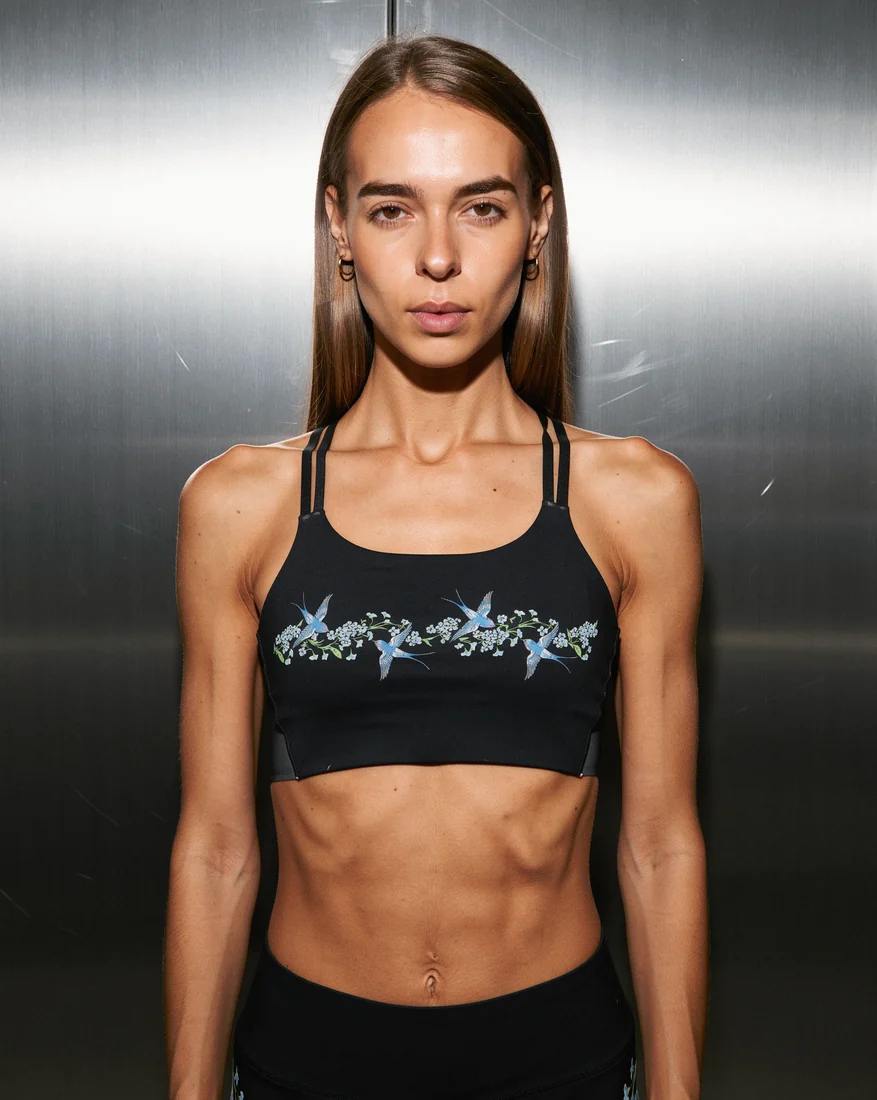
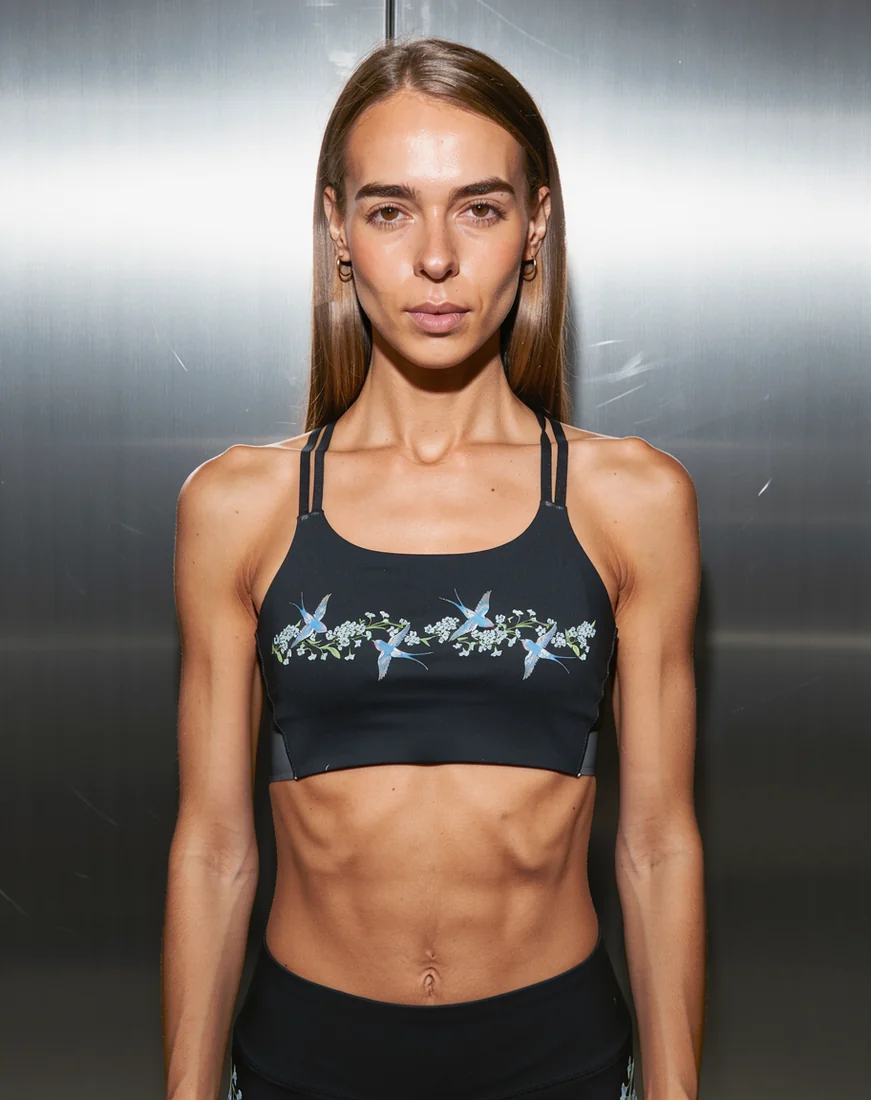
Show the product galleries at full size and rework Giving Back
The detail page drops the hero-and-thumbnails pattern: the lifestyle
frame now runs the full width of the media column with the five studio
frames two-up beneath it, and the copy sticks alongside.

Giving Back leads with the figure itself instead of a bordered box of
centred text, and the shoulder bag on the home page gets a wide frame
of its own so the card stops cropping into the strap.

The Bluebird and Wildflower covers carry a facial retouch.

Claude-Session: https://claude.ai/code/session_01H2N2bsu5qw9aqWFwFaRsDy

diff --git a/css/styles.css b/css/styles.css
@@ -1150,14 +1150,9 @@ html.is-ready .hero__cta .btn { transition-delay: .5s; }
   background: var(--ink);
   padding: clamp(7.5rem, 13vw, 11rem) var(--pad-x) clamp(4rem, 8vw, 7rem);
   display: grid;
-  grid-template-columns: minmax(0, 52fr) minmax(0, 48fr);
-  gap: clamp(2.5rem, 6vw, 6rem);
+  grid-template-columns: minmax(0, 63fr) minmax(0, 37fr);
+  gap: clamp(2.5rem, 5vw, 4.5rem);
   align-items: start;
-}
-.pdp__media img {
-  width: 100%;
-  aspect-ratio: 3 / 4;
-  object-fit: cover;
 }
 .pdp__info .crumb {
   display: inline-block;
@@ -1240,6 +1235,8 @@ html.is-ready .hero__cta .btn { transition-delay: .5s; }
 
 @media (max-width: 1023px) {
   .pdp { grid-template-columns: 1fr; }
+  /* Stacked, the copy has nothing to stick beside. */
+  .pdp__info { position: static; }
 }
 @media (max-width: 719px) {
   .related__grid { grid-template-columns: 1fr; }
@@ -1309,26 +1306,33 @@ html.is-ready .hero__cta .btn { transition-delay: .5s; }
    Product detail: gallery, prints, specification
    ============================================================ */
 
-.pdp__hero img { width: 100%; aspect-ratio: 3 / 4; object-fit: cover; }
-
-.pdp__thumbs {
+/* Lifestyle frame across the full column, studio details two-up beneath it. */
+.pdp__gallery {
   display: grid;
-  grid-template-columns: repeat(auto-fit, minmax(0, 1fr));
-  gap: .6rem;
-  margin-top: .6rem;
+  grid-template-columns: 1fr 1fr;
+  gap: .5rem;
 }
-.thumb {
-  padding: 0;
-  border: 1px solid transparent;
-  background: none;
-  cursor: pointer;
+.pdp-shot {
+  margin: 0;
   overflow: hidden;
-  transition: border-color .25s ease, opacity .25s ease;
-  opacity: .7;
+  background: var(--ink-deep);
 }
-.thumb img { width: 100%; aspect-ratio: 3 / 4; object-fit: cover; display: block; }
-.thumb:hover, .thumb:focus-visible { opacity: 1; }
-.thumb.is-active { border-color: var(--magenta); opacity: 1; }
+.pdp-shot img {
+  display: block;
+  width: 100%;
+  aspect-ratio: 4 / 5;
+  object-fit: cover;
+}
+.pdp-shot--lead { grid-column: 1 / -1; }
+/* A last frame left alone in its row runs full width rather than half-empty. */
+.pdp-shot:last-child:nth-child(even) { grid-column: 1 / -1; }
+.pdp-shot:last-child:nth-child(even) img { aspect-ratio: 16 / 11; }
+
+/* The copy follows the gallery instead of stranding it beside white space. */
+.pdp__info {
+  position: sticky;
+  top: clamp(5.5rem, 9vw, 7.5rem);
+}
 
 .pdp__origin {
   font-family: var(--font-ui);
@@ -1421,32 +1425,92 @@ html.is-ready .hero__cta .btn { transition-delay: .5s; }
    ============================================================ */
 
 .giving {
-  background: var(--ink);
-  padding: clamp(4rem, 8vw, 7rem) var(--pad-x);
+  background: var(--ink-deep);
+  padding: clamp(4.5rem, 9vw, 8rem) var(--pad-x);
+  border-top: 1px solid rgba(244, 243, 241, .08);
+  border-bottom: 1px solid rgba(244, 243, 241, .08);
 }
 .giving__inner {
-  max-width: 900px;
+  max-width: 1180px;
   margin: 0 auto;
-  text-align: center;
-  border: 1px solid rgba(237, 10, 237, .4);
-  border-radius: 18px;
-  padding: clamp(2.2rem, 5vw, 4rem);
+  display: grid;
+  grid-template-columns: minmax(0, 40fr) minmax(0, 60fr);
+  gap: clamp(2rem, 6vw, 5.5rem);
+  align-items: center;
 }
-.giving h2 {
+
+/* The figure carries the section: one number, read before any sentence. */
+.giving__figure {
+  margin: 0;
+  position: relative;
+  padding-left: clamp(1rem, 2.4vw, 2rem);
+}
+.giving__figure::before {
+  content: "";
+  position: absolute;
+  left: 0;
+  top: .35em;
+  bottom: .9em;
+  width: 2px;
+  background: linear-gradient(180deg, var(--magenta-hot), rgba(237, 10, 237, 0));
+}
+.giving__num {
+  display: block;
   font-family: var(--font-head);
   font-weight: 300;
+  font-size: clamp(5rem, 13vw, 11rem);
+  line-height: .86;
+  letter-spacing: -.04em;
+  color: var(--white);
+}
+.giving__num i {
+  font-style: normal;
+  color: var(--magenta);
+  font-size: .5em;
+  vertical-align: super;
+  margin-left: .04em;
+}
+.giving__figure figcaption {
+  margin-top: 1rem;
+  font-family: var(--font-ui);
+  font-size: .78rem;
+  letter-spacing: .22em;
   text-transform: uppercase;
-  font-size: clamp(1.5rem, 2.8vw, 2.4rem);
+  color: var(--grey);
+}
+
+.giving__kicker {
+  font-family: var(--font-ui);
+  font-size: .76rem;
+  letter-spacing: .24em;
+  text-transform: uppercase;
+  color: var(--magenta);
+  margin-bottom: 1rem;
+}
+.giving__title {
+  font-family: var(--font-head);
+  font-weight: 300;
+  font-size: clamp(1.6rem, 3.2vw, 2.7rem);
+  line-height: 1.18;
+  letter-spacing: -.01em;
   margin-bottom: 1.4rem;
 }
-.giving h2 strong { font-weight: 500; color: var(--magenta); }
-.giving p {
+.giving__copy p {
   color: var(--grey);
   font-size: 1.05rem;
-  max-width: 62ch;
-  margin: 0 auto .9rem;
+  line-height: 1.7;
+  max-width: 54ch;
+  margin-bottom: .9rem;
 }
-.giving .pct { color: var(--magenta); font-weight: 600; }
+.giving__note {
+  color: var(--white) !important;
+  padding-top: 1.1rem;
+  border-top: 1px solid rgba(244, 243, 241, .12);
+}
+
+@media (max-width: 859px) {
+  .giving__inner { grid-template-columns: 1fr; gap: 2.2rem; }
+}
 
 /* ============================================================
    Collection story

diff --git a/index.html b/index.html
@@ -124,7 +124,7 @@
           <a class="btn btn--ghost" href="product.html?id=refined-jacket">Check our product <span class="btn__icon" aria-hidden="true"></span></a>
         </article>
         <article class="product-card product-card--wide ar">
-          <img src="assets/cards/shoulder-bag.webp" loading="lazy" alt="The Active Shoulder Bag worn over the shoulder">
+          <img src="assets/cards/shoulder-bag-wide.webp" loading="lazy" alt="The Active Shoulder Bag">
           <a class="btn btn--ghost" href="product.html?id=active-shoulder-bag">Check our product <span class="btn__icon" aria-hidden="true"></span></a>
         </article>
       </div>
@@ -189,13 +189,18 @@
 
 
     <section class="giving" id="giving-back">
-      <div class="giving__inner ar">
-        <h2 class="ah">Giving <strong>Back</strong></h2>
-        <p>ABIRA was created for women who move with purpose. We believe that strength
-           is meant to be shared.</p>
-        <p>That's why <span class="pct">1% of all ABIRA sales</span> goes toward helping
-           cancer patients access the treatment they need. Every piece you choose helps
-           someone keep moving forward.</p>
+      <div class="giving__inner">
+        <figure class="giving__figure ar">
+          <span class="giving__num">1<i>%</i></span>
+          <figcaption>of all ABIRA sales</figcaption>
+        </figure>
+        <div class="giving__copy ar" style="--ar-delay:.12s">
+          <p class="giving__kicker">Giving back</p>
+          <h2 class="giving__title">Strength is meant<br>to be shared.</h2>
+          <p>ABIRA was created for women who move with purpose. One percent of every
+             sale goes toward helping cancer patients access the treatment they need.</p>
+          <p class="giving__note">Every piece you choose helps someone keep moving forward.</p>
+        </div>
       </div>
     </section>
 

diff --git a/js/main.js b/js/main.js
@@ -120,13 +120,6 @@
 
     document.title = fullName + ' — ABIRA';
 
-    const hero = document.getElementById('pdp-img');
-    function showImage(src, alt) {
-      hero.src = 'assets/' + src;
-      hero.alt = alt || '';
-    }
-    showImage(product.img, product.alt);
-
     document.getElementById('pdp-name').textContent = fullName;
     document.getElementById('pdp-desc').textContent =
       product.desc + (product.printNote ? ' ' + product.printNote : '');
@@ -147,21 +140,18 @@
       props.remove();
     }
 
-    // Gallery thumbnails
-    const thumbs = document.getElementById('pdp-thumbs');
-    (product.gallery || []).forEach((g, i) => {
-      const b = document.createElement('button');
-      b.type = 'button';
-      b.className = 'thumb' + (i === 0 ? ' is-active' : '');
-      b.setAttribute('aria-label', g.alt);
-      b.innerHTML = '<img src="assets/' + g.img + '" loading="lazy" alt="">';
-      b.addEventListener('click', () => {
-        showImage(g.img, g.alt);
-        thumbs.querySelectorAll('.thumb').forEach(t => t.classList.remove('is-active'));
-        b.classList.add('is-active');
-      });
-      thumbs.appendChild(b);
-    });
+    // Gallery: the lifestyle frame full width, then the studio details two-up.
+    const gallery = document.getElementById('pdp-gallery');
+    const frames = product.gallery && product.gallery.length
+      ? product.gallery
+      : [{ img: product.img, alt: product.alt }];
+
+    gallery.innerHTML = frames.map((g, i) =>
+      '<figure class="pdp-shot' + (i === 0 ? ' pdp-shot--lead' : '') + '">' +
+        '<img src="assets/' + g.img + '" alt="' + (g.alt || '').replace(/"/g, '&quot;') + '"' +
+        (i === 0 ? '' : ' loading="lazy"') + '>' +
+      '</figure>'
+    ).join('');
 
     // Other prints in the same style, each its own product page
     const printsBox = document.getElementById('pdp-prints');

diff --git a/about.html b/about.html
@@ -135,13 +135,18 @@
     </section>
 
     <section class="giving" id="giving-back">
-      <div class="giving__inner ar">
-        <h2 class="ah">Giving <strong>Back</strong></h2>
-        <p>ABIRA was created for women who move with purpose. We believe that strength
-           is meant to be shared.</p>
-        <p>That's why <span class="pct">1% of all ABIRA sales</span> goes toward helping
-           cancer patients access the treatment they need. Every piece you choose helps
-           someone keep moving forward.</p>
+      <div class="giving__inner">
+        <figure class="giving__figure ar">
+          <span class="giving__num">1<i>%</i></span>
+          <figcaption>of all ABIRA sales</figcaption>
+        </figure>
+        <div class="giving__copy ar" style="--ar-delay:.12s">
+          <p class="giving__kicker">Giving back</p>
+          <h2 class="giving__title">Strength is meant<br>to be shared.</h2>
+          <p>ABIRA was created for women who move with purpose. One percent of every
+             sale goes toward helping cancer patients access the treatment they need.</p>
+          <p class="giving__note">Every piece you choose helps someone keep moving forward.</p>
+        </div>
       </div>
     </section>
   </main>

diff --git a/product.html b/product.html
@@ -47,8 +47,7 @@
   <main>
     <section class="pdp" id="pdp">
       <div class="pdp__media">
-        <figure class="pdp__hero"><img id="pdp-img" alt="" width="900" height="1125"></figure>
-        <div class="pdp__thumbs" id="pdp-thumbs"></div>
+        <div class="pdp__gallery" id="pdp-gallery"></div>
       </div>
       <div class="pdp__info">
         <a class="crumb" href="products.html">Back to all products</a>
